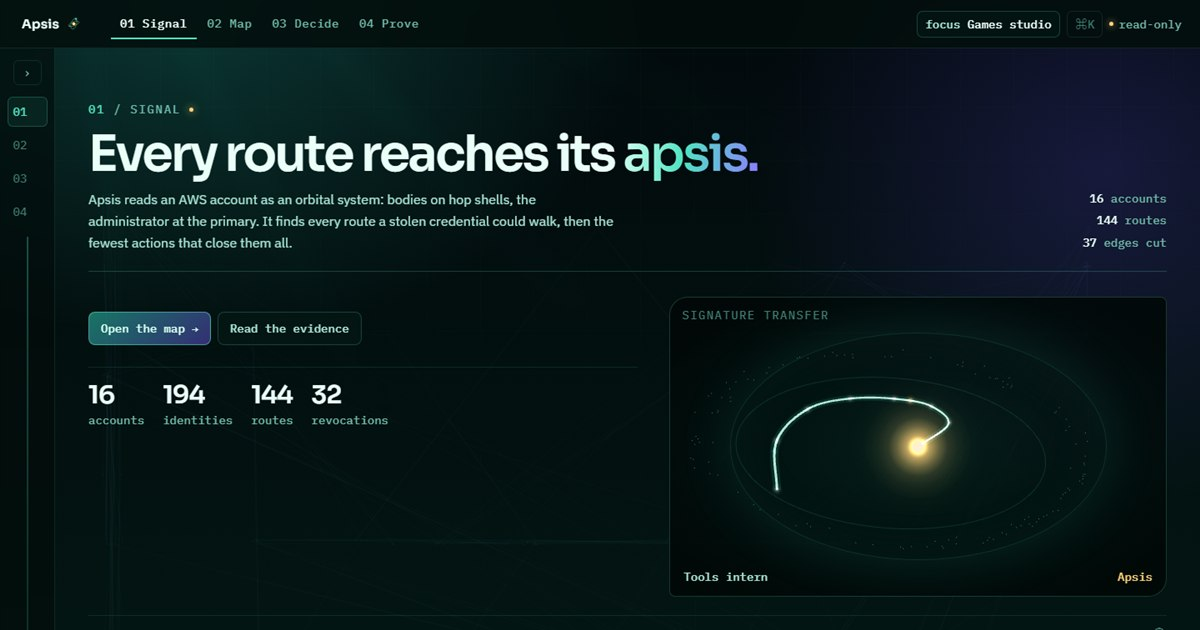
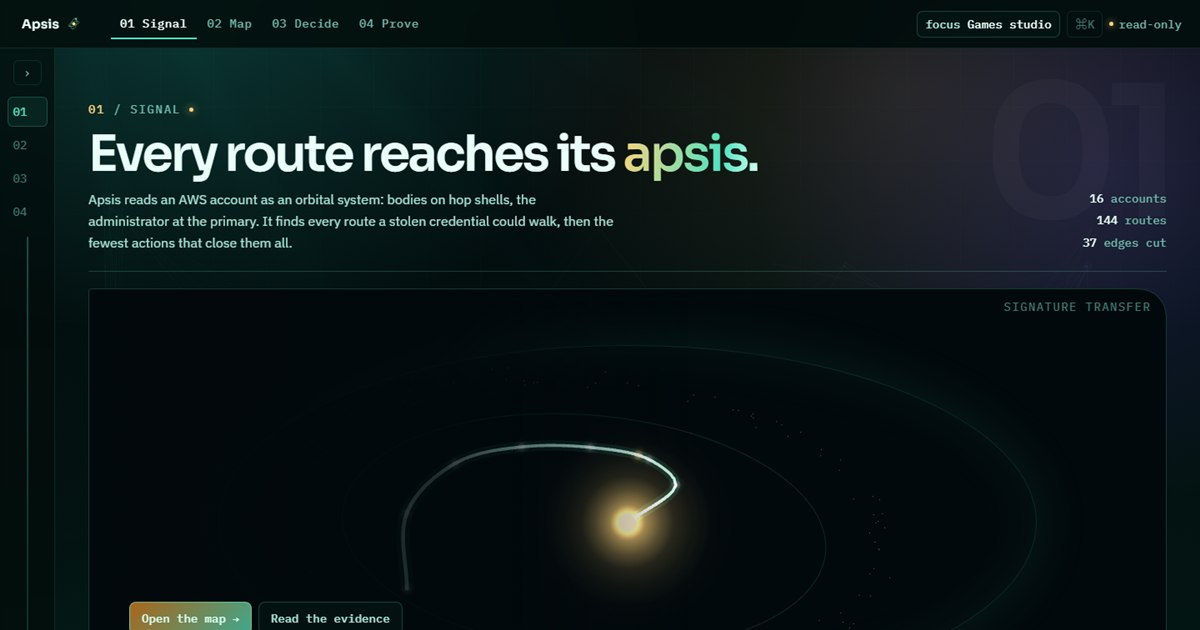
feat: give every act its own palette, architecture and instrument

diff --git a/console/src/styles/acts.css b/console/src/styles/acts.css
@@ -1,0 +1,88 @@
+/* ==========================================================================
+   ACT IDENTITIES — one architecture per register, not four recolours.
+   ========================================================================== */
+
+#signal { --act: #ffd27a; --act-2: #4fe3c1; }
+#map { --act: #5b8cff; --act-2: #8b7bff; }
+#decide { --act: #4fe3c1; --act-2: #ff8fa3; }
+#prove { --act: #ff8fa3; --act-2: #ffd27a; }
+
+.bio-act > * { position: relative; z-index: 1; }
+.bio-act::before {
+  content: ""; position: absolute; inset: 0; z-index: 0; pointer-events: none;
+}
+.bio-act::after {
+  position: absolute; right: 38px; top: 18px; z-index: 0;
+  font: 600 220px/1 var(--display); letter-spacing: -0.08em;
+  color: rgb(255 255 255 / 2.6%); pointer-events: none;
+}
+#signal::after { content: "01"; }
+#map::after { content: "02"; }
+#decide::after { content: "03"; }
+#prove::after { content: "04"; }
+
+#signal::before {
+  background:
+    radial-gradient(56% 44% at 74% 4%, rgb(255 210 122 / 12%), transparent 68%),
+    radial-gradient(40% 38% at 10% 70%, rgb(79 227 193 / 6%), transparent 72%);
+}
+#map::before {
+  background:
+    linear-gradient(rgb(91 140 255 / 4%) 1px, transparent 1px) 0 0 / 32px 32px,
+    linear-gradient(90deg, rgb(91 140 255 / 4%) 1px, transparent 1px) 0 0 / 32px 32px,
+    radial-gradient(50% 40% at 18% 2%, rgb(91 140 255 / 12%), transparent 70%);
+  mask-image: linear-gradient(180deg, #000, transparent 92%);
+}
+#decide::before {
+  background:
+    radial-gradient(46% 44% at 16% 12%, rgb(79 227 193 / 12%), transparent 70%),
+    radial-gradient(40% 36% at 88% 76%, rgb(255 143 163 / 7%), transparent 72%),
+    radial-gradient(rgb(120 255 220 / 8%) 1px, transparent 1px) 0 0 / 26px 26px;
+}
+#prove::before {
+  background:
+    repeating-linear-gradient(180deg, rgb(255 143 163 / 3.5%) 0 1px, transparent 1px 7px),
+    radial-gradient(52% 44% at 84% 8%, rgb(255 143 163 / 10%), transparent 70%);
+}
+
+#signal .bio-eyebrow b, #signal .bio-process-node b { color: var(--act); }
+#map .bio-eyebrow b, #map .bio-process-node b { color: var(--act); }
+#decide .bio-eyebrow b, #decide .bio-process-node b { color: var(--act); }
+#prove .bio-eyebrow b, #prove .bio-process-node b { color: var(--act); }
+
+#signal .bio-title em { background-image: linear-gradient(100deg, #ffd27a 0%, #4fe3c1 72%, #d6fff2 100%); }
+#map .bio-title em { background-image: linear-gradient(100deg, #9dbbff 0%, #5b8cff 48%, #8b7bff 100%); }
+#decide .bio-title em { background-image: linear-gradient(100deg, #d6fff2 0%, #4fe3c1 46%, #ff8fa3 100%); }
+#prove .bio-title em { background-image: linear-gradient(100deg, #ffc0ca 0%, #ff8fa3 46%, #ffd27a 100%); }
+
+#signal .bio-btn--solid { background: linear-gradient(135deg, #a9651c, #3fa88f); }
+#map .bio-btn--solid { background: linear-gradient(135deg, #2c62ff, #7b5cf0); }
+#decide .bio-btn--solid { background: linear-gradient(135deg, #1c9c80, #a83b5c); }
+#prove .bio-btn--solid { background: linear-gradient(135deg, #8f2444, #b07a2a); }
+
+#map .bio-panel { border-radius: 12px; background: linear-gradient(160deg, rgb(7 22 43 / 88%), rgb(2 8 18 / 95%)); }
+#map .bio-stage { border-radius: 10px; }
+#map .bio-kick { color: var(--act); }
+
+#decide .bio-ledger, #decide .bio-panel { border-radius: 32px 14px 32px 14px; }
+#decide .bio-ledger { background: linear-gradient(160deg, rgb(5 36 31 / 90%), rgb(2 12 11 / 95%)); }
+#decide .bio-tag--cool { border-color: rgb(255 143 163 / 45%); color: #ffc0ca; }
+
+#prove .bio-terminal { border-radius: 4px 22px 4px 22px; border-color: rgb(255 143 163 / 28%); }
+#prove .bio-rev .tr i { background: linear-gradient(90deg, var(--rose), var(--amber)); }
+#prove .bio-tag--hot { border-color: rgb(255 210 122 / 45%); color: var(--amber); }
+
+.bio-reels { display: flex; gap: 10px; align-items: center; }
+.bio-reels span {
+  position: relative; width: 26px; height: 26px; border-radius: 50%;
+  border: 1px solid rgb(255 143 163 / 45%);
+  background: radial-gradient(circle, rgb(255 143 163 / 14%) 0 22%, transparent 24%);
+}
+.bio-reels span::before, .bio-reels span::after {
+  content: ""; position: absolute; left: 50%; top: 50%; width: 18px; height: 1px;
+  background: rgb(255 143 163 / 45%); transform-origin: left center;
+}
+.bio-reels span::before { transform: rotate(30deg); }
+.bio-reels span::after { transform: rotate(120deg); }
+.bio-reels[data-playing="true"] span { animation: bio-reel 3.2s linear infinite; }
+@keyframes bio-reel { to { transform: rotate(360deg); } }

diff --git a/console/src/styles/observatory.css b/console/src/styles/observatory.css
@@ -1,0 +1,95 @@
+/* Signal is the only full-bleed observatory: copy over the field, not a card. */
+
+.bio-observatory {
+  position: relative;
+  min-height: 560px;
+  margin-top: 10px;
+  border: 1px solid var(--line);
+  border-radius: 4px 34px 4px 34px;
+  overflow: hidden;
+  background: #02090c;
+}
+.bio-observatory-scene,
+.bio-observatory-scene .bio-routefield {
+  position: absolute;
+  inset: 0;
+  min-height: 0;
+}
+.bio-observatory-scene .bio-routefield {
+  border: 0;
+  border-radius: 0;
+  background: transparent;
+}
+.bio-observatory-scene .bio-routefield .tag {
+  left: auto;
+  right: 18px;
+  color: var(--act);
+}
+.bio-observatory-scene .bio-routefield .bio-route-label--start {
+  left: 48%;
+}
+.bio-observatory-copy {
+  position: relative;
+  z-index: 2;
+  max-width: 720px;
+  padding: 54px 48px 44px;
+  background: linear-gradient(90deg, rgb(2 9 12 / 96%) 0%, rgb(2 9 12 / 84%) 58%, transparent 100%);
+}
+.bio-observatory-copy .bio-title {
+  margin: 18px 0 14px;
+  max-width: 15ch;
+  font-size: clamp(44px, 5vw, 74px);
+}
+.bio-observatory-copy .bio-lede {
+  max-width: 54ch;
+}
+.bio-observatory-meta {
+  position: absolute;
+  right: 22px;
+  top: 20px;
+  z-index: 2;
+  text-align: right;
+  font: 500 14px var(--mono);
+  color: var(--mute);
+  line-height: 1.9;
+}
+.bio-observatory-meta b {
+  color: var(--ink);
+  font-weight: 500;
+}
+.bio-signal-act .bio-instrument {
+  margin-top: 14px;
+}
+
+@media (max-width: 900px) {
+  .bio-observatory {
+    min-height: 640px;
+  }
+  .bio-observatory-copy {
+    max-width: none;
+    padding: 34px 24px 30px;
+    background: linear-gradient(180deg, rgb(2 9 12 / 94%) 0%, rgb(2 9 12 / 76%) 52%, rgb(2 9 12 / 20%) 100%);
+  }
+  .bio-observatory-meta {
+    display: none;
+  }
+  .bio-observatory-scene .bio-routefield .bio-route-label--start {
+    left: 24px;
+  }
+  .bio-signal-act .bio-title {
+    font-size: clamp(36px, 10vw, 52px);
+  }
+}
+
+.bio-observatory > .bio-routefield {
+  position: absolute; inset: 0; min-height: 0; border: 0; border-radius: 0;
+  background: transparent;
+}
+.bio-observatory > .bio-routefield .tag { left: auto; right: 18px; }
+.bio-observatory-copy {
+  min-height: 560px; display: flex; flex-direction: column;
+  justify-content: flex-end; padding-bottom: 46px;
+}
+@media (max-width: 900px) {
+  .bio-observatory-copy { min-height: 640px; justify-content: flex-end; }
+}

diff --git a/console/src/sections/Prove.tsx b/console/src/sections/Prove.tsx
@@ -210,6 +210,7 @@ export function Prove() {
           <div className="bio-wave">
             <div className="bio-wavehead">
               <span>Waveform / recorded output</span>
+              <div className="bio-reels" data-playing={playingWave ? "true" : undefined} aria-hidden="true"><span /><span /></div>
               <button type="button" onClick={() => setPlayingWave((value) => !value)}>
                 {playingWave ? "Pause" : "Play"}
               </button>

diff --git a/console/src/decide/SpecimenCore.tsx b/console/src/decide/SpecimenCore.tsx
@@ -88,7 +88,7 @@ export function SpecimenCore({ accounts, techniques, table, techId, accountKey, 
     renderer.setPixelRatio(Math.min(1.5, window.devicePixelRatio || 1));
     const scene = new THREE.Scene();
     const camera = new THREE.PerspectiveCamera(38, 1, 1, 4000);
-    camera.position.set(0, 170, 1050);
+    camera.position.set(0, 210, 1150);
     camera.lookAt(0, 0, 0);
     const group = new THREE.Group();
     scene.add(group);

diff --git a/console/src/sections/Signal.tsx b/console/src/sections/Signal.tsx
@@ -104,8 +104,8 @@ export function Signal() {
         }
       />
 
-      <div className="bio-signal-grid">
-        <div className="bio-signal-copy">
+      <div className="bio-observatory">
+        <div className="bio-observatory-copy">
           <div className="bio-actions">
             <button type="button" className="bio-btn bio-btn--solid" onClick={() => scrollToSection("map")}>
               Open the map →

diff --git a/console/src/main.tsx b/console/src/main.tsx
@@ -2,6 +2,8 @@ import { StrictMode } from "react";
 import { createRoot } from "react-dom/client";
 import App from "./App";
 import "./styles/bio.css";
+import "./styles/acts.css";
+import "./styles/observatory.css";
 
 createRoot(document.getElementById("root")!).render(
   <StrictMode>

diff --git a/README.md b/README.md
@@ -157,10 +157,11 @@ npm run audit      # contrast, headings, names, target size
 | Decide | 18 techniques × 16 accounts as a containment core, with the exact ledger |
 | Prove | A command builder, the recorded output, the 3D field collapse, the zero, guardrails and the Penumbra handoff |
 
-Each act has its own instrument, not just a recolour: Signal carries a light
-curve and a transfer scrubber; Map a compass and a field-strength meter; Decide
-a sonar ping, a species legend and the specimen core; Prove a recorded waveform
-and the field collapse.
+Each act has its own instrument, palette and architecture, not just a recolour:
+Signal is a warm full-bleed observatory with a light curve and scrubber; Map is
+a blue magnetic workbench with a compass and field meter; Decide is an emerald
+bioluminescent lab with a sonar ping and species legend; Prove is a rose field
+recording with a playable waveform and collapse.
 
 ![The Map section](docs/img/map.png)
 

diff --git a/CHANGELOG.md b/CHANGELOG.md
@@ -24,6 +24,9 @@
 - A light curve and scrubber in Signal; a compass, field meter and field toggle
   in Map; sonar rings, a ping, a whale and a species legend in Decide; a
   playable recorded waveform in Prove.
+- Act-specific palettes and architecture: a warm full-bleed observatory,
+  a blue magnetic workbench, an emerald organic lab and a rose field recording,
+  with ghost act numerals, unique grids, panel radii and motion.
 - A guardrail mapping, a guardrail ledger and a Penumbra handoff card.
 - `schema/alert.schema.json`, `schema/evidence.schema.json`,
   `docs/INTEGRATIONS.md` and the observed-path case study under
